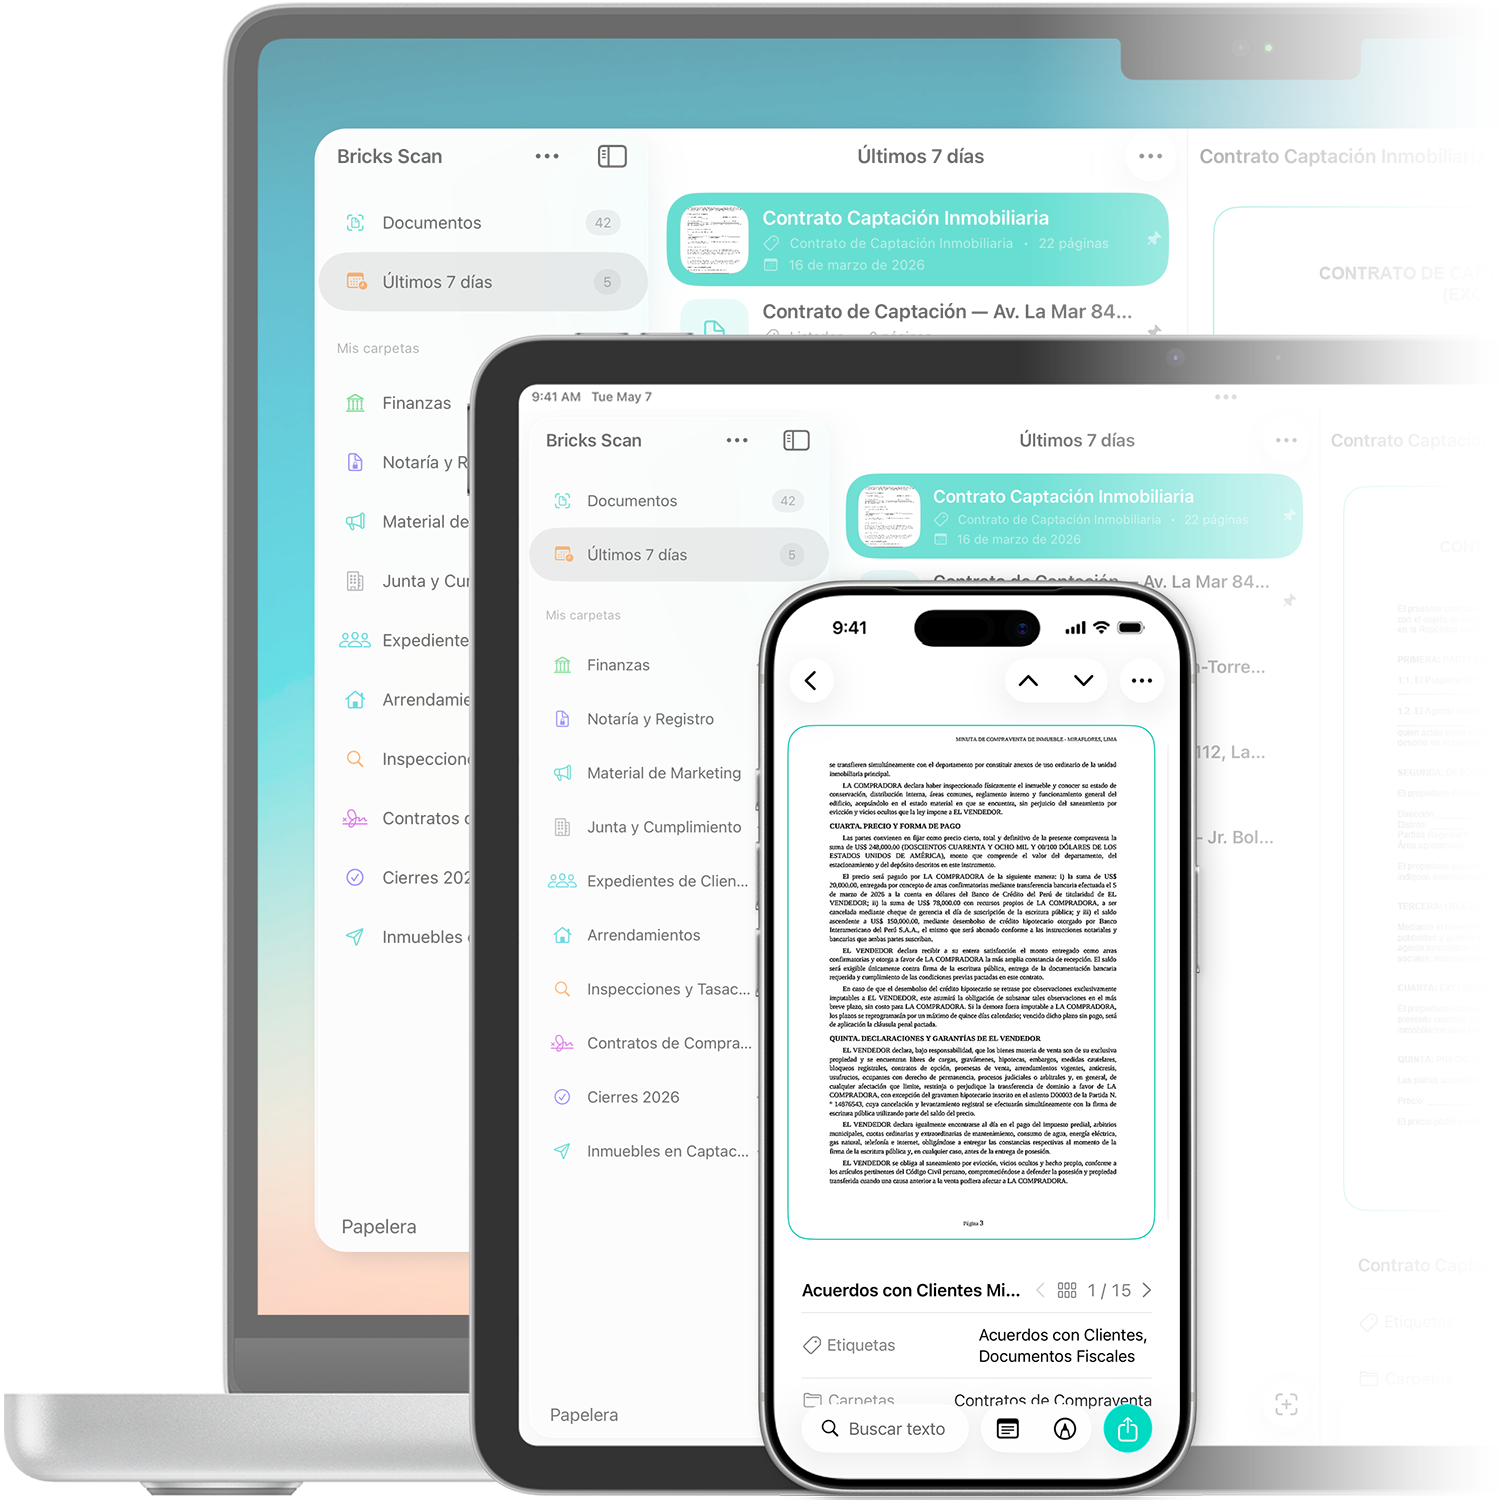
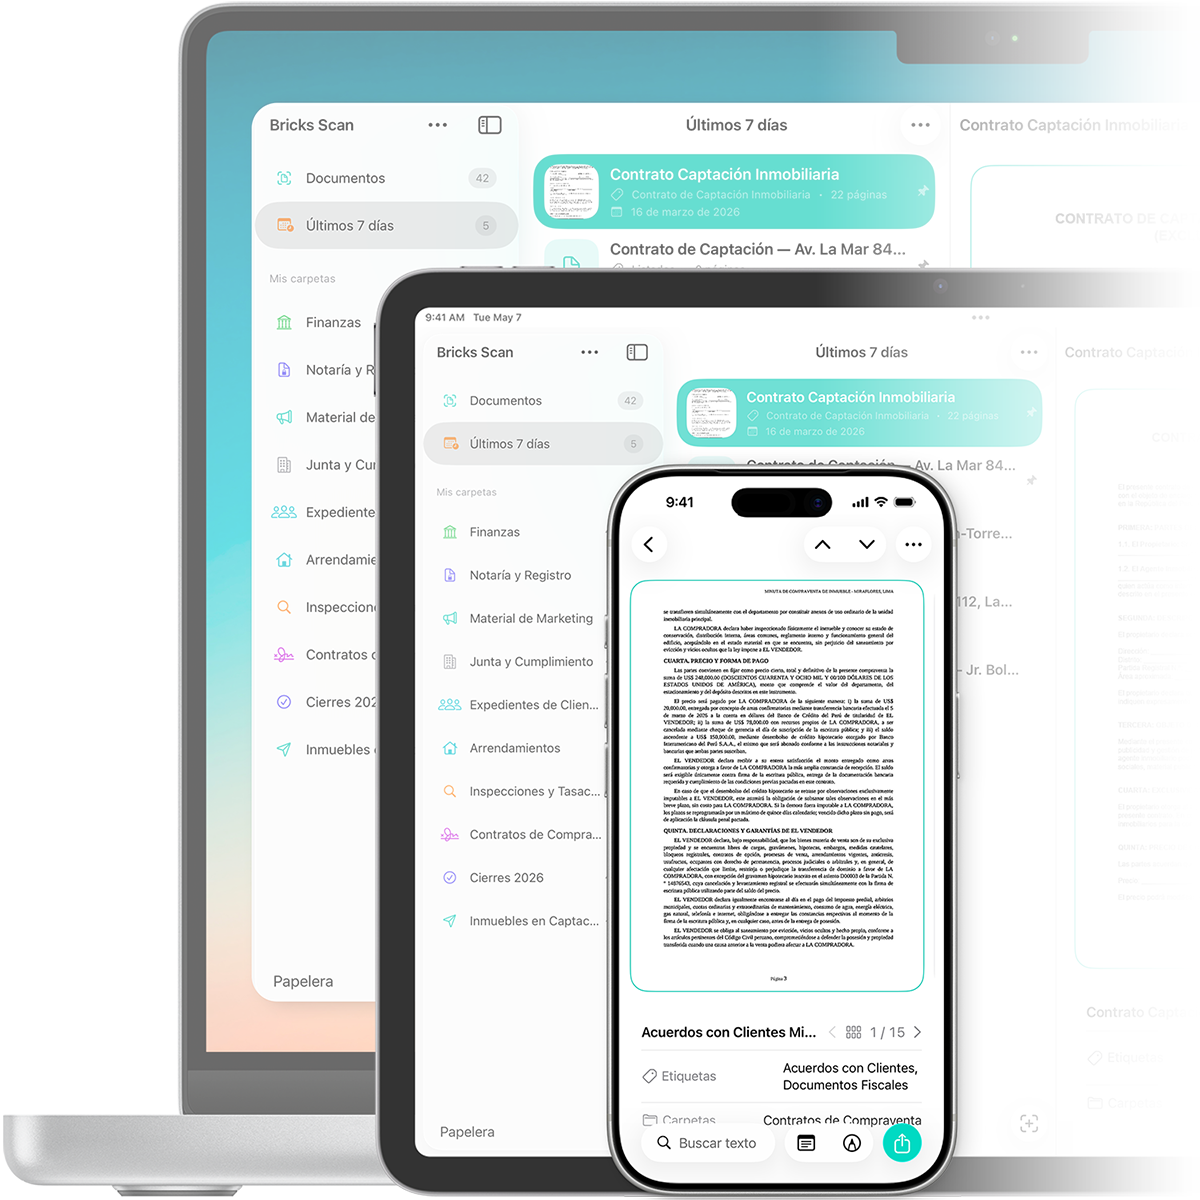
Updates

diff --git a/bricks-scan.html b/bricks-scan.html
@@ -891,9 +891,9 @@
     <section class="section">
         <div class="container reveal-on-scroll delay-200"
             style="max-width: 1100px; text-align: center; margin-bottom: 48px">
-            <img src="images-bricks-scan/scan-feature-en-01.jpg" alt="Perfect For Feature" class="hero-img"
+            <img src="images-bricks-scan/scan-feature-en-01.png" alt="Perfect For Feature" class="hero-img"
                 data-app-image="bricks-scan-feature-01" lang="en" />
-            <img src="images-bricks-scan/scan-feature-es-01.jpg" alt="Perfect For Feature" class="hero-img hidden"
+            <img src="images-bricks-scan/scan-feature-es-01.png" alt="Perfect For Feature" class="hero-img hidden"
                 data-app-image="bricks-scan-feature-01" lang="es" />
         </div>
         <div class="container container-large center-text">
@@ -1046,9 +1046,9 @@
     <section class="section section-padding-large">
         <div class="container reveal-on-scroll delay-200"
             style="max-width: 1100px; text-align: center; margin-bottom: 48px">
-            <img src="images-bricks-scan/scan-feature-en-02.jpg" alt="Time Saving Feature" class="hero-img"
+            <img src="images-bricks-scan/scan-feature-en-02.png" alt="Time Saving Feature" class="hero-img"
                 data-app-image="bricks-scan-feature-02" lang="en" />
-            <img src="images-bricks-scan/scan-feature-es-02.jpg" alt="Time Saving Feature" class="hero-img hidden"
+            <img src="images-bricks-scan/scan-feature-es-02.png" alt="Time Saving Feature" class="hero-img hidden"
                 data-app-image="bricks-scan-feature-02" lang="es" />
         </div>
 
